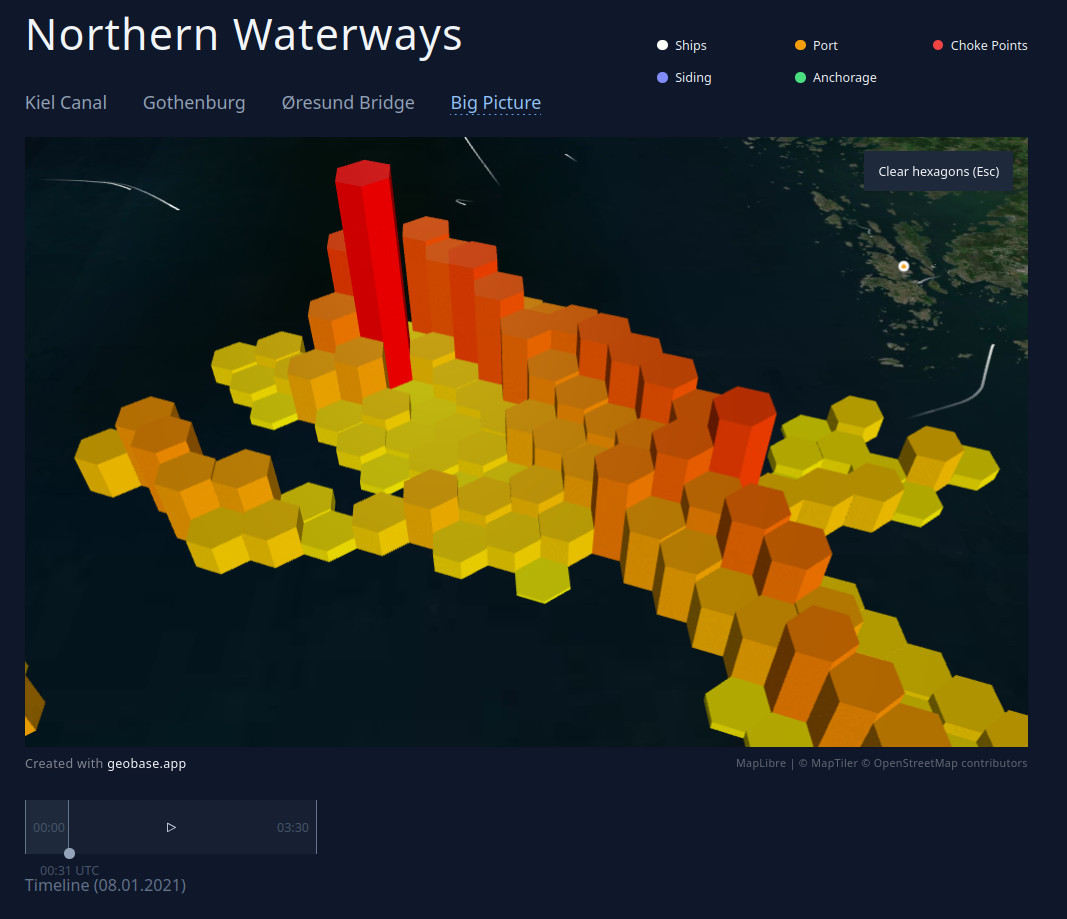
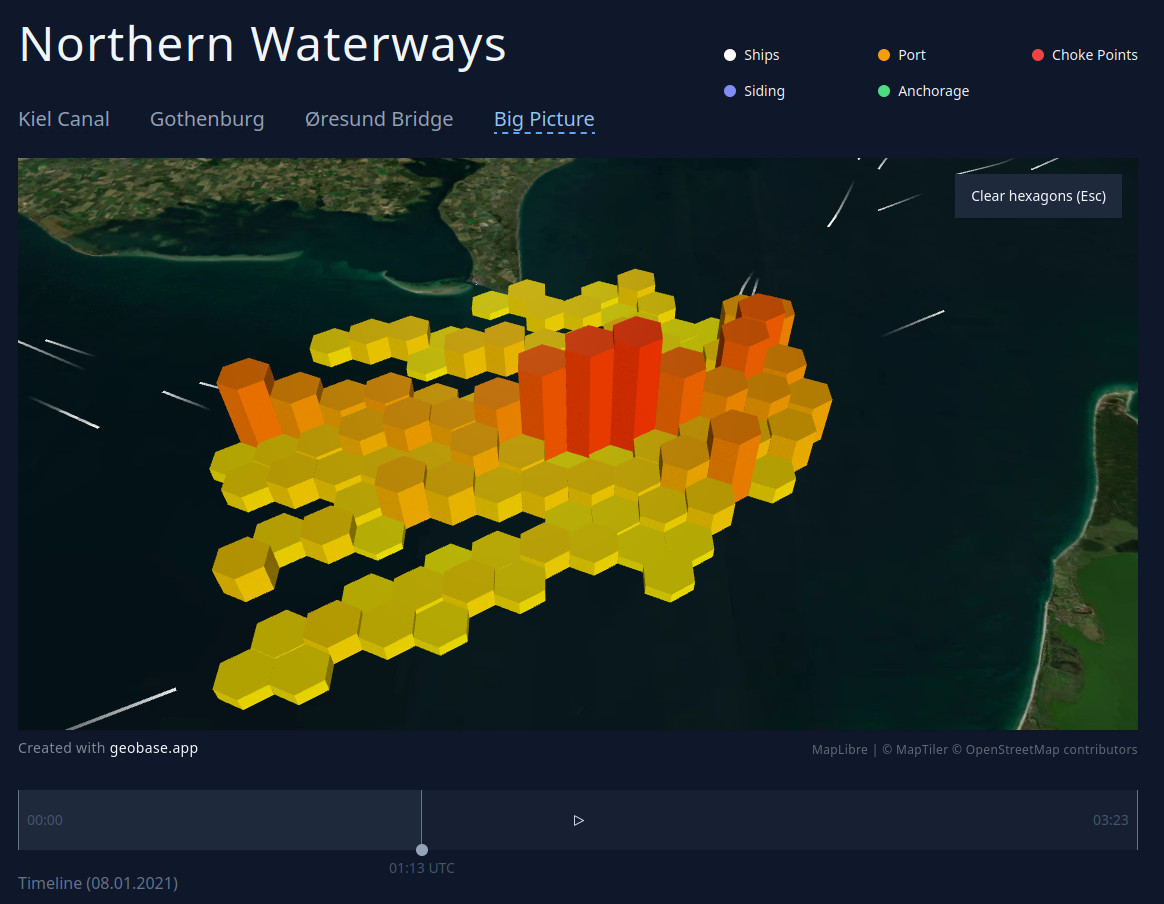
update docs and screenshots

diff --git a/README.md b/README.md
@@ -1,4 +1,4 @@
-# Blueprint: Ship Movement Analysis (Next.js)
+# Blueprint: Ship Movement Analysis (React)
 
  A Geobase quickstart blueprint application showing animated ship trails. 
 
@@ -25,7 +25,7 @@
 
 ## What's included
 
-This is a Next.JS React and Geobase application that shows animated ship movements on a map. It uses the powerful PostgreSQL extensions MobilityDb, H3 and PostGIS, all built into Geobase. The application can also interactively query the data to calculate aggregate statistics.  With just minimal editing, a user can quickly get started loading, processing and viewing dynamic temporal geospatial data. 
+This is a React and Geobase application that shows animated ship movements on a map. It uses the powerful PostgreSQL extensions MobilityDb, H3 and PostGIS, all built into Geobase. The application can also interactively query the data to calculate aggregate statistics.  With just minimal editing, a user can quickly get started loading, processing and viewing dynamic temporal geospatial data. 
 
 AIS stands for Automatic Identification System. It is the location tracking system for sea vessels. It's like GPS but with man additional data fields. There is a dataset already uploaded to Geobase ready for this quickstart. This quickstart will import, processes and make the data available as temporal vector tiles. The vector tiles are then displayed using Deck.gl on a Maplibre map. Users can draw a polygon on the map and the application will display hexagons showing the amount of ship activity in the specified area.   
 
@@ -33,7 +33,7 @@ AIS stands for Automatic Identification System. It is the location tracking syst
 
 The first step is to have an account on [Geobase](https://geobase.app/) and to create a new project.
 
-Basic familiarity with Node or running Next.js applications (e.g. via nvm and using npm)
+Basic familiarity with Node or running React / Next.js applications (e.g. via nvm and using npm)
 
 Once you're Geobase project is created, you can manually download, clone or create a new GitHub repository using this template by [clicking here](https://github.com/new?template_name=geobase-blueprint-ship-movement&template_owner=decision-labs). This will create a copy of this repo without the git history.
 
@@ -161,7 +161,7 @@ The database migration sets up the following tables:
 
 1. `public.ships_fn()`: Create vector tiles (mvt) with embedded timestamps, to be served by the Geobase tile server. This function powers the animated ship movements on the map. 
 2. `public.activity_by_region_and_time_local()`: Queries the AIS table with a geoJSON polygon, time interval and map resolution and returns the a timestamp, the h3 hexagon id and count of ship events from the Aisinputfiltered table for that area. This function is used when querying the map by drawing on it.
-
+3. `public.get_ships_time_range()`: Returns the minimum and maximum timestamps from the ships table. This is used to set the time range for the animation control on the map. You can override this time range data by setting the start_date and end_date in STATIC_TIME_RANGE in the `lib/consts.ts` file.
 
 
 ### RLS (Row Level Security)
@@ -186,7 +186,7 @@ Row Level Security  is implemented for the tables to ensure data privacy and acc
 
 For additional information, refer to:
 
-  [Next.js documentation](https://nextjs.org/docs)
+  [React documentation](https://react.dev/reference/react)
   [Geobase documentation](https://docs.geobase.app/)
 
 For support, reach out on the [Geobase Discord](https://geobase.app/discord).